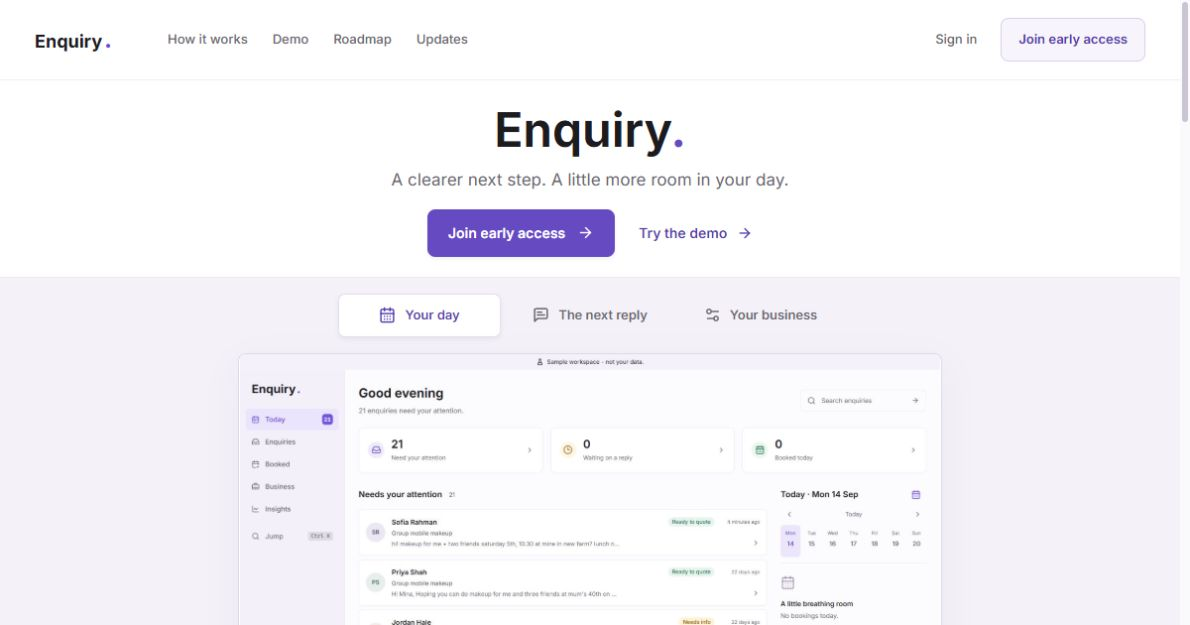
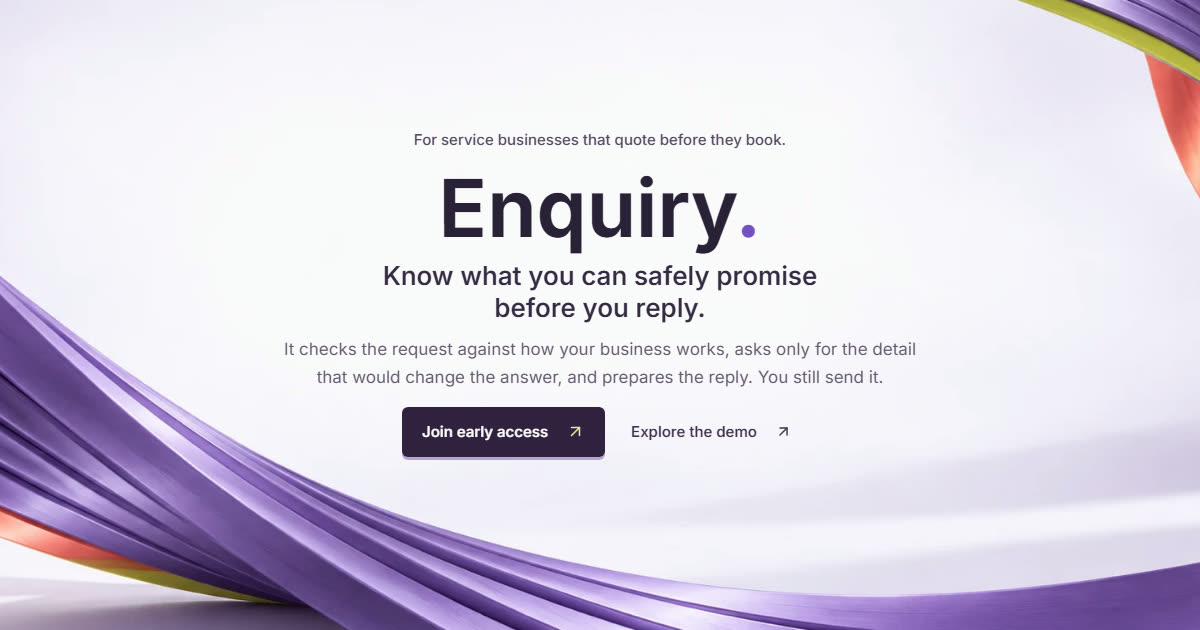
feat(copy): put the locked Promise Check wedge on the site (#43)
The live copy sold the container: less admin, a prepared next step, a
nicer inbox. Research doc 38 (2026-09-02) tested that language against
Front, Jobber, Podium, Numa, HoneyBook and the quote-assistant startups
and found every line already claimed. Doc 37 locked the sharper wedge -
know what you can safely promise before you reply; yes, no, not yet;
only asks for the detail that changes the answer - and the site never
adopted it. This puts it on the hero, the home sections, the story
stage, the invite band, the footer, /how, the meta title/description,
and a re-rendered 1200x630 share card from the new hero.

Copy only. Hero markup, motion and the ribbon are untouched. Every claim
maps to shipped behaviour: the blocker card ("Needed to price this"),
the price compiler's refusal, "Owner review required", "Why this", and
the prepared-not-sent boundary. No "only", "first" or automation claims.

diff --git a/src/routes/index.tsx b/src/routes/index.tsx
@@ -22,9 +22,9 @@ export const Route = createFileRoute("/")({
   head: () =>
     socialHead({
       path: "/",
-      title: "Enquiry - a clearer next step for your business",
+      title: "Enquiry - know what you can safely promise before you reply",
       description:
-        "Keep customer enquiries moving. Bring the conversation together, prepare the next reply and stay in control. Join Enquiry early access.",
+        "Enquiry checks each customer request against how your business works, asks only for the detail that would change the answer, and prepares the reply for you to send. Join early access.",
     }),
 });
 
@@ -58,35 +58,35 @@ function Home() {
       <ProductShowcase />
       <section className="public-section public-container" aria-labelledby="work-title">
         <div className="public-section-heading">
-          <p className="public-kicker">For the person who runs the business</p>
+          <p className="public-kicker">Before you promise anything</p>
           <h2 id="work-title">
-            Less piecing it together.
+            Yes. No. Not yet.
             <br />
-            More moving it forward.
+            Know before you reply.
           </h2>
           <p>
-            From the first question to the booked job, keep the conversation, the important details
-            and the next step together.
+            Replying quickly is the easy part. Knowing what you can safely say is the hard part, and
+            it is the part Enquiry does first.
           </p>
         </div>
         <div className="public-benefits">
           {[
             {
               icon: Inbox,
-              title: "Know what needs you",
-              body: "A focused daily view of enquiries needing attention and the bookings ahead.",
+              title: "Not yet is a real answer",
+              body: "If a price or a date cannot be decided yet, it says so and shows why, instead of putting an unsupported number in front of a customer.",
               tone: "violet",
             },
             {
               icon: MessageSquareText,
-              title: "Start with a prepared reply",
-              body: "Review a useful next step, with missing details and anything uncertain made clear.",
+              title: "Only asks what changes the answer",
+              body: "It works out which missing detail actually moves the price, the date or whether you can do the job, and asks for that one. Nothing else.",
               tone: "rose",
             },
             {
               icon: Settings2,
-              title: "Keep it true to your business",
-              body: "Your services, pricing, policies and voice give each enquiry its context.",
+              title: "Your rules decide, not a script",
+              body: "Your services, prices and policies do the checking. The same message can get a different correct answer at a different business.",
               tone: "green",
             },
           ].map(({ icon: Icon, title, body, tone }) => (
@@ -110,7 +110,7 @@ function Home() {
               <h2>
                 The details change.
                 <br />
-                The next step should too.
+                So does what you can promise.
               </h2>
             </div>
             <Link to="/how" className="public-text-link">
@@ -143,8 +143,7 @@ function Home() {
             <div>
               <strong>Something not covered?</strong>
               <p>
-                Questions go to a person, not a queue.{" "}
-                <a href={SUPPORT_MAILTO}>{SUPPORT_EMAIL}</a>
+                Questions go to a person, not a queue. <a href={SUPPORT_MAILTO}>{SUPPORT_EMAIL}</a>
               </p>
             </div>
           </div>

diff --git a/src/components/site/brand-hero.tsx b/src/components/site/brand-hero.tsx
@@ -49,13 +49,14 @@ export function BrandHero() {
           Enquiry<span>.</span>
         </h1>
         <p className="brand-hero-promise">
-          Less back and forth.
+          Know what you can safely promise
           <br />
-          More getting on with it.
+          before you reply.
         </p>
         <p className="brand-hero-description">
-          Bring in a messy enquiry. See what it needs, what it should cost
-          <br className="brand-desktop-break" /> and what to say next. You still send it.
+          It checks the request against how your business works, asks only for the detail
+          <br className="brand-desktop-break" /> that would change the answer, and prepares the
+          reply. You still send it.
         </p>
         <div className="brand-hero-actions">
           <Link to="/early-access" className="brand-hero-join">

diff --git a/src/components/site/early-access-invite.tsx b/src/components/site/early-access-invite.tsx
@@ -6,11 +6,11 @@ export function EarlyAccessInvite() {
       <div className="public-container">
         <div>
           <p className="public-kicker">Help shape what comes next</p>
-          <h2 id="invite-title">Enquiry, for your working day.</h2>
+          <h2 id="invite-title">Stop guessing at the reply.</h2>
           <p>
             Join the list. We will invite businesses in small groups as early access opens.
-            Indicative pricing is from A$29 per month inc GST, with 30% off the first 12 months
-            for founding members.
+            Indicative pricing is from A$29 per month inc GST, with 30% off the first 12 months for
+            founding members.
           </p>
         </div>
         <div className="public-invite-action">

diff --git a/src/routes/how.tsx b/src/routes/how.tsx
@@ -23,7 +23,10 @@ function How() {
       <header className="public-container public-page-heading public-editorial-heading">
         <div>
           <h1>How Enquiry works</h1>
-          <p>A real example. A changing request. A clearer next step.</p>
+          <p>
+            A real example. A changing request. What you can safely promise, and what still decides
+            it.
+          </p>
         </div>
         <div className="story-principles" aria-label="The Enquiry approach">
           {[

diff --git a/src/components/site/enquiry-story.tsx b/src/components/site/enquiry-story.tsx
@@ -12,7 +12,10 @@ const STAGES = [
     title: "Keep the bigger picture",
     detail: "The request meets your services, rules and working day.",
   },
-  { title: "A clearer next step", detail: "Know what to check before making a commitment." },
+  {
+    title: "What you can promise",
+    detail: "One detail still decides it. Check that before committing.",
+  },
 ];
 
 export function EnquiryStory({ compact = false }: { compact?: boolean }) {

diff --git a/src/lib/site/head.ts b/src/lib/site/head.ts
@@ -22,7 +22,7 @@ const SHARE_IMAGE_PATH = "/og.jpg";
  * per route either.
  */
 const SHARE_IMAGE_ALT =
-  "Enquiry's website and Today screen, showing the actual app with sample enquiries.";
+  "Enquiry's home page: know what you can safely promise before you reply, for service businesses that quote before they book.";
 
 function parseOrigin(value: string): string | null {
   const trimmed = value.trim();

diff --git a/src/components/site/site-shell.tsx b/src/components/site/site-shell.tsx
@@ -140,7 +140,8 @@ export function SiteShell({ children }: { children: ReactNode }) {
             </Link>
             <p>
               For the person behind the business.
-              <br />A clearer next step, every day.
+              <br />
+              Know what you can promise, every day.
             </p>
           </div>
           <nav aria-label="Explore">
